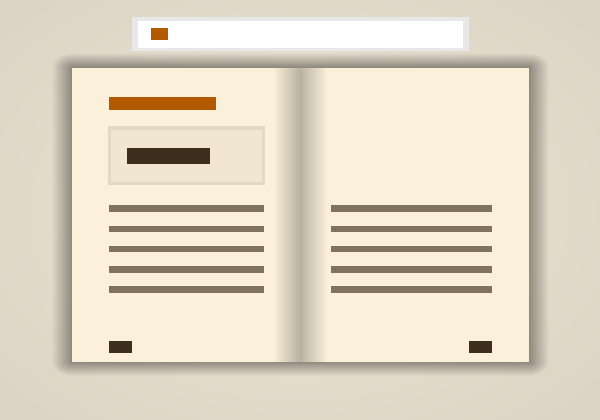
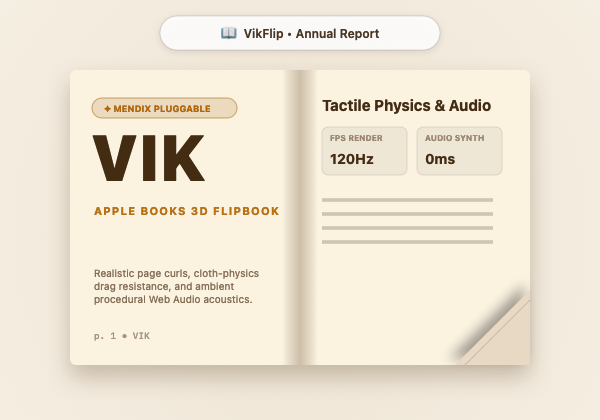
feat: render prominent VIK title on 600x420 cover image

diff --git a/scripts/render-cover.swift b/scripts/render-cover.swift
@@ -1,0 +1,251 @@
+import Cocoa
+
+let width = 600
+let height = 420
+
+let colorSpace = CGColorSpaceCreateDeviceRGB()
+guard let context = CGContext(
+    data: nil,
+    width: width,
+    height: height,
+    bitsPerComponent: 8,
+    bytesPerRow: width * 4,
+    space: colorSpace,
+    bitmapInfo: CGImageAlphaInfo.premultipliedLast.rawValue
+) else {
+    fatalError("Failed to create CGContext")
+}
+
+let nsCtx = NSGraphicsContext(cgContext: context, flipped: false)
+NSGraphicsContext.current = nsCtx
+
+// 1. Warm Desk Background Gradient
+let bgRect = NSRect(x: 0, y: 0, width: width, height: height)
+let bgGradient = NSGradient(colors: [
+    NSColor(calibratedRed: 0.91, green: 0.86, blue: 0.78, alpha: 1.0),
+    NSColor(calibratedRed: 0.95, green: 0.92, blue: 0.86, alpha: 1.0)
+])!
+bgGradient.draw(in: bgRect, relativeCenterPosition: NSPoint(x: 0.0, y: -0.1))
+
+// 2. Floating Top Apple Books Chrome Pill
+let pillRect = NSRect(x: 160, y: 370, width: 280, height: 34)
+let pillPath = NSBezierPath(roundedRect: pillRect, xRadius: 17, yRadius: 17)
+
+let pillShadow = NSShadow()
+pillShadow.shadowColor = NSColor(calibratedWhite: 0.0, alpha: 0.12)
+pillShadow.shadowOffset = NSSize(width: 0, height: -2)
+pillShadow.shadowBlurRadius = 8
+pillShadow.set()
+
+NSColor(calibratedWhite: 1.0, alpha: 0.88).setFill()
+pillPath.fill()
+
+// Pill Border
+NSShadow().set() // Clear shadow
+NSColor(calibratedWhite: 0.0, alpha: 0.10).setStroke()
+pillPath.lineWidth = 1.0
+pillPath.stroke()
+
+// Pill Text
+let pillText = "📖  VikFlip • Annual Report"
+let pillAttrs: [NSAttributedString.Key: Any] = [
+    .font: NSFont.systemFont(ofSize: 12, weight: .semibold),
+    .foregroundColor: NSColor(calibratedRed: 0.22, green: 0.16, blue: 0.10, alpha: 1.0)
+]
+let pillTextSize = (pillText as NSString).size(withAttributes: pillAttrs)
+(pillText as NSString).draw(at: NSPoint(x: pillRect.midX - pillTextSize.width / 2, y: pillRect.midY - pillTextSize.height / 2), withAttributes: pillAttrs)
+
+// 3. Central Book Spread Geometry
+let bookRect = NSRect(x: 70, y: 55, width: 460, height: 295)
+
+// Outer Book 3D Elevation Drop Shadow
+let bookShadow = NSShadow()
+bookShadow.shadowColor = NSColor(calibratedRed: 0.25, green: 0.16, blue: 0.08, alpha: 0.28)
+bookShadow.shadowOffset = NSSize(width: 0, height: -12)
+bookShadow.shadowBlurRadius = 24
+bookShadow.set()
+
+let bookPath = NSBezierPath(roundedRect: bookRect, xRadius: 6, yRadius: 6)
+NSColor(calibratedRed: 0.98, green: 0.94, blue: 0.85, alpha: 1.0).setFill()
+bookPath.fill()
+
+NSShadow().set() // Reset shadow
+
+// 4. Center Spine Gutter Shadow (Ambient Occlusion)
+let spineX = bookRect.midX
+let spineRect = NSRect(x: spineX - 18, y: bookRect.minY, width: 36, height: bookRect.height)
+let spineGradient = NSGradient(colors: [
+    NSColor(calibratedRed: 0.35, green: 0.22, blue: 0.10, alpha: 0.0),
+    NSColor(calibratedRed: 0.35, green: 0.22, blue: 0.10, alpha: 0.22),
+    NSColor(calibratedRed: 0.35, green: 0.22, blue: 0.10, alpha: 0.0)
+])!
+spineGradient.draw(in: spineRect, angle: 0)
+
+// 5. Left Page Content (Embossed "VIK" Cover / Feature Title)
+let leftPageRect = NSRect(x: bookRect.minX + 22, y: bookRect.minY + 20, width: (bookRect.width / 2) - 44, height: bookRect.height - 40)
+
+// Badge: "MENDIX PLUGGABLE WIDGET"
+let badgeRect = NSRect(x: leftPageRect.minX, y: leftPageRect.maxY - 28, width: 145, height: 20)
+let badgePath = NSBezierPath(roundedRect: badgeRect, xRadius: 10, yRadius: 10)
+NSColor(calibratedRed: 0.70, green: 0.35, blue: 0.0, alpha: 0.12).setFill()
+badgePath.fill()
+NSColor(calibratedRed: 0.70, green: 0.35, blue: 0.0, alpha: 0.40).setStroke()
+badgePath.lineWidth = 1.0
+badgePath.stroke()
+
+let badgeText = "✦ MENDIX PLUGGABLE"
+let badgeAttrs: [NSAttributedString.Key: Any] = [
+    .font: NSFont.systemFont(ofSize: 9, weight: .bold),
+    .foregroundColor: NSColor(calibratedRed: 0.65, green: 0.32, blue: 0.0, alpha: 1.0)
+]
+(badgeText as NSString).draw(at: NSPoint(x: badgeRect.minX + 12, y: badgeRect.minY + 4), withAttributes: badgeAttrs)
+
+// PROMINENT WORD: "VIK"
+let vikText = "VIK"
+let vikAttrs: [NSAttributedString.Key: Any] = [
+    .font: NSFont.systemFont(ofSize: 64, weight: .heavy),
+    .foregroundColor: NSColor(calibratedRed: 0.20, green: 0.13, blue: 0.06, alpha: 1.0),
+    .kern: 3.0
+]
+(vikText as NSString).draw(at: NSPoint(x: leftPageRect.minX, y: leftPageRect.maxY - 105), withAttributes: vikAttrs)
+
+// Subtitle: "APPLE BOOKS 3D FLIPBOOK"
+let subText = "APPLE BOOKS 3D FLIPBOOK"
+let subAttrs: [NSAttributedString.Key: Any] = [
+    .font: NSFont.systemFont(ofSize: 11, weight: .bold),
+    .foregroundColor: NSColor(calibratedRed: 0.68, green: 0.36, blue: 0.05, alpha: 1.0),
+    .kern: 1.2
+]
+(subText as NSString).draw(at: NSPoint(x: leftPageRect.minX + 2, y: leftPageRect.maxY - 128), withAttributes: subAttrs)
+
+// Paragraph description
+let descText = "Realistic page curls, cloth-physics drag resistance, and ambient procedural Web Audio acoustics."
+let descAttrs: [NSAttributedString.Key: Any] = [
+    .font: NSFont.systemFont(ofSize: 10, weight: .regular),
+    .foregroundColor: NSColor(calibratedRed: 0.45, green: 0.36, blue: 0.26, alpha: 1.0)
+]
+let descRect = NSRect(x: leftPageRect.minX + 2, y: leftPageRect.minY + 36, width: leftPageRect.width - 10, height: 42)
+(descText as NSString).draw(in: descRect, withAttributes: descAttrs)
+
+// Folio left: "Page 1 • VIK"
+let folioLeft = "p. 1 • VIK"
+let folioAttrs: [NSAttributedString.Key: Any] = [
+    .font: NSFont.monospacedSystemFont(ofSize: 9, weight: .medium),
+    .foregroundColor: NSColor(calibratedRed: 0.60, green: 0.50, blue: 0.40, alpha: 1.0)
+]
+(folioLeft as NSString).draw(at: NSPoint(x: leftPageRect.minX + 2, y: leftPageRect.minY + 4), withAttributes: folioAttrs)
+
+// 6. Right Page Content (Metrics & Tactile Page-Curl Physics)
+let rightPageRect = NSRect(x: spineX + 22, y: bookRect.minY + 20, width: (bookRect.width / 2) - 44, height: bookRect.height - 40)
+
+let rightHeading = "Tactile Physics & Audio"
+let rightHeadingAttrs: [NSAttributedString.Key: Any] = [
+    .font: NSFont.systemFont(ofSize: 15, weight: .bold),
+    .foregroundColor: NSColor(calibratedRed: 0.20, green: 0.13, blue: 0.06, alpha: 1.0)
+]
+(rightHeading as NSString).draw(at: NSPoint(x: rightPageRect.minX, y: rightPageRect.maxY - 25), withAttributes: rightHeadingAttrs)
+
+// Two Metric Cards
+let card1Rect = NSRect(x: rightPageRect.minX, y: rightPageRect.maxY - 85, width: 85, height: 48)
+let card1Path = NSBezierPath(roundedRect: card1Rect, xRadius: 6, yRadius: 6)
+NSColor(calibratedWhite: 0.0, alpha: 0.035).setFill()
+card1Path.fill()
+NSColor(calibratedWhite: 0.0, alpha: 0.08).setStroke()
+card1Path.lineWidth = 1
+card1Path.stroke()
+
+let m1Label = "FPS RENDER"
+let m1Val = "120Hz"
+let m1LabelAttrs: [NSAttributedString.Key: Any] = [
+    .font: NSFont.systemFont(ofSize: 8, weight: .bold),
+    .foregroundColor: NSColor(calibratedRed: 0.55, green: 0.45, blue: 0.35, alpha: 1.0)
+]
+let m1ValAttrs: [NSAttributedString.Key: Any] = [
+    .font: NSFont.systemFont(ofSize: 14, weight: .bold),
+    .foregroundColor: NSColor(calibratedRed: 0.20, green: 0.13, blue: 0.06, alpha: 1.0)
+]
+(m1Label as NSString).draw(at: NSPoint(x: card1Rect.minX + 8, y: card1Rect.maxY - 16), withAttributes: m1LabelAttrs)
+(m1Val as NSString).draw(at: NSPoint(x: card1Rect.minX + 8, y: card1Rect.minY + 8), withAttributes: m1ValAttrs)
+
+let card2Rect = NSRect(x: rightPageRect.minX + 95, y: rightPageRect.maxY - 85, width: 85, height: 48)
+let card2Path = NSBezierPath(roundedRect: card2Rect, xRadius: 6, yRadius: 6)
+NSColor(calibratedWhite: 0.0, alpha: 0.035).setFill()
+card2Path.fill()
+NSColor(calibratedWhite: 0.0, alpha: 0.08).setStroke()
+card2Path.lineWidth = 1
+card2Path.stroke()
+
+let m2Label = "AUDIO SYNTH"
+let m2Val = "0ms"
+(m2Label as NSString).draw(at: NSPoint(x: card2Rect.minX + 8, y: card2Rect.maxY - 16), withAttributes: m1LabelAttrs)
+(m2Val as NSString).draw(at: NSPoint(x: card2Rect.minX + 8, y: card2Rect.minY + 8), withAttributes: m1ValAttrs)
+
+// Simulated text lines on right page
+for i in 0..<4 {
+    let lineY = rightPageRect.maxY - 110 - CGFloat(i * 14)
+    let linePath = NSBezierPath()
+    linePath.move(to: NSPoint(x: rightPageRect.minX, y: lineY))
+    linePath.line(to: NSPoint(x: rightPageRect.maxX - 15, y: lineY))
+    NSColor(calibratedRed: 0.75, green: 0.68, blue: 0.58, alpha: 0.45).setStroke()
+    linePath.lineWidth = 3.5
+    linePath.stroke()
+}
+
+// 7. Tactile 3D Curled Corner on Bottom-Right
+let curlSize: CGFloat = 65.0
+let curlOrigin = NSPoint(x: bookRect.maxX, y: bookRect.minY)
+
+// Shadow under the curl
+let underCurlPath = NSBezierPath()
+underCurlPath.move(to: NSPoint(x: curlOrigin.x - curlSize - 10, y: curlOrigin.y))
+underCurlPath.line(to: NSPoint(x: curlOrigin.x, y: curlOrigin.y + curlSize + 10))
+underCurlPath.line(to: curlOrigin)
+underCurlPath.close()
+
+let underCurlShadow = NSShadow()
+underCurlShadow.shadowColor = NSColor(calibratedWhite: 0.0, alpha: 0.35)
+underCurlShadow.shadowOffset = NSSize(width: -6, height: 6)
+underCurlShadow.shadowBlurRadius = 12
+underCurlShadow.set()
+NSColor(calibratedRed: 0.88, green: 0.82, blue: 0.72, alpha: 1.0).setFill()
+underCurlPath.fill()
+
+NSShadow().set() // Reset
+
+// Curled Paper Flap Path
+let flapPath = NSBezierPath()
+flapPath.move(to: NSPoint(x: curlOrigin.x - curlSize, y: curlOrigin.y))
+flapPath.line(to: NSPoint(x: curlOrigin.x, y: curlOrigin.y + curlSize))
+flapPath.curve(to: NSPoint(x: curlOrigin.x - curlSize, y: curlOrigin.y),
+               controlPoint1: NSPoint(x: curlOrigin.x - curlSize * 0.45, y: curlOrigin.y + curlSize * 0.55),
+               controlPoint2: NSPoint(x: curlOrigin.x - curlSize * 0.85, y: curlOrigin.y + curlSize * 0.15))
+flapPath.close()
+
+let flapGradient = NSGradient(colors: [
+    NSColor(calibratedRed: 1.0, green: 0.98, blue: 0.93, alpha: 1.0),
+    NSColor(calibratedRed: 0.92, green: 0.86, blue: 0.76, alpha: 1.0)
+])!
+flapGradient.draw(in: flapPath, angle: 135)
+
+// Flap edge stroke
+NSColor(calibratedWhite: 0.0, alpha: 0.10).setStroke()
+flapPath.lineWidth = 0.8
+flapPath.stroke()
+
+// Export to PNG
+guard let imageRef = context.makeImage() else {
+    fatalError("Failed to make CGImage")
+}
+
+let bitmapRep = NSBitmapImageRep(cgImage: imageRef)
+guard let pngData = bitmapRep.representation(using: .png, properties: [:]) else {
+    fatalError("Failed to convert to PNG")
+}
+
+let outUrl = URL(fileURLWithPath: "assets/cover-image.png")
+try pngData.write(to: outUrl)
+
+let screenshot1Url = URL(fileURLWithPath: "assets/screenshots/screenshot-1-sepia-two-page-spread.png")
+try pngData.write(to: screenshot1Url)
+
+print("✅ Successfully generated premium cover image with word VIK (600x420 px)")
